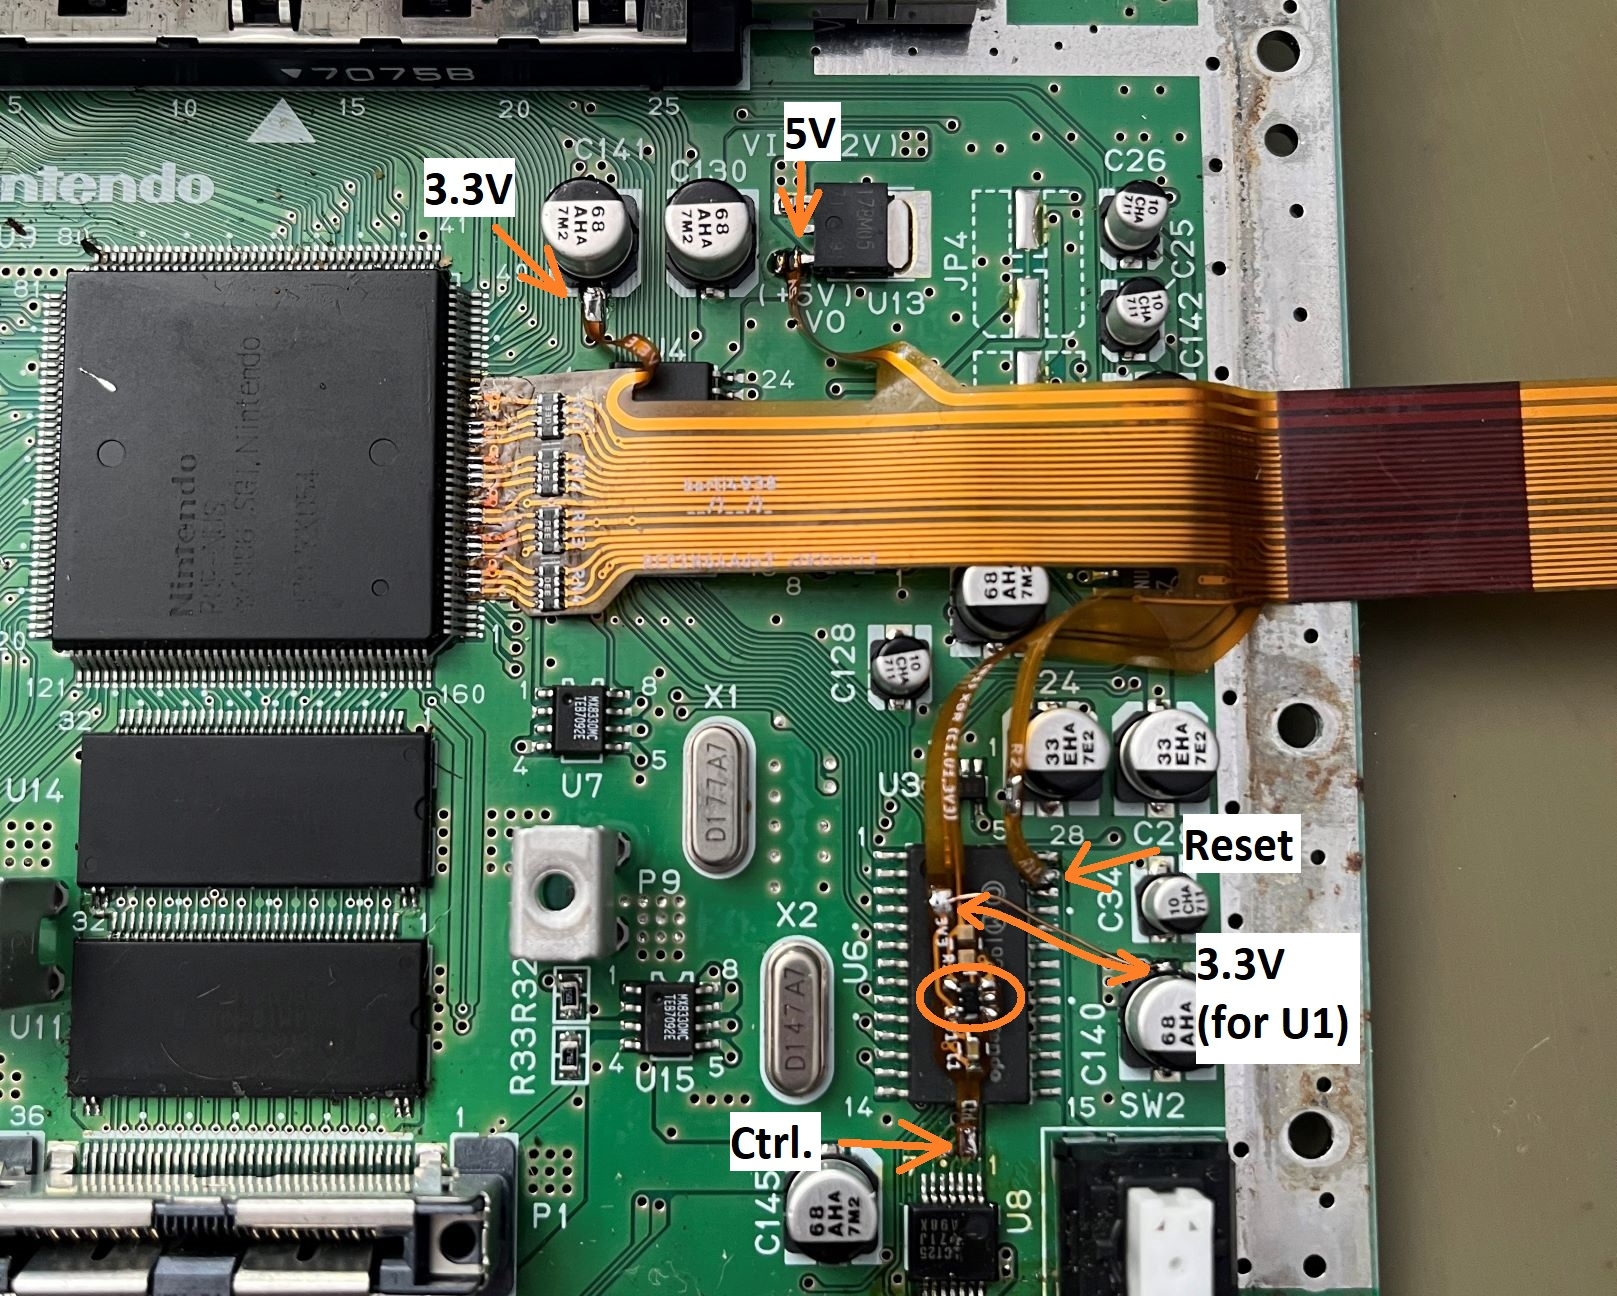
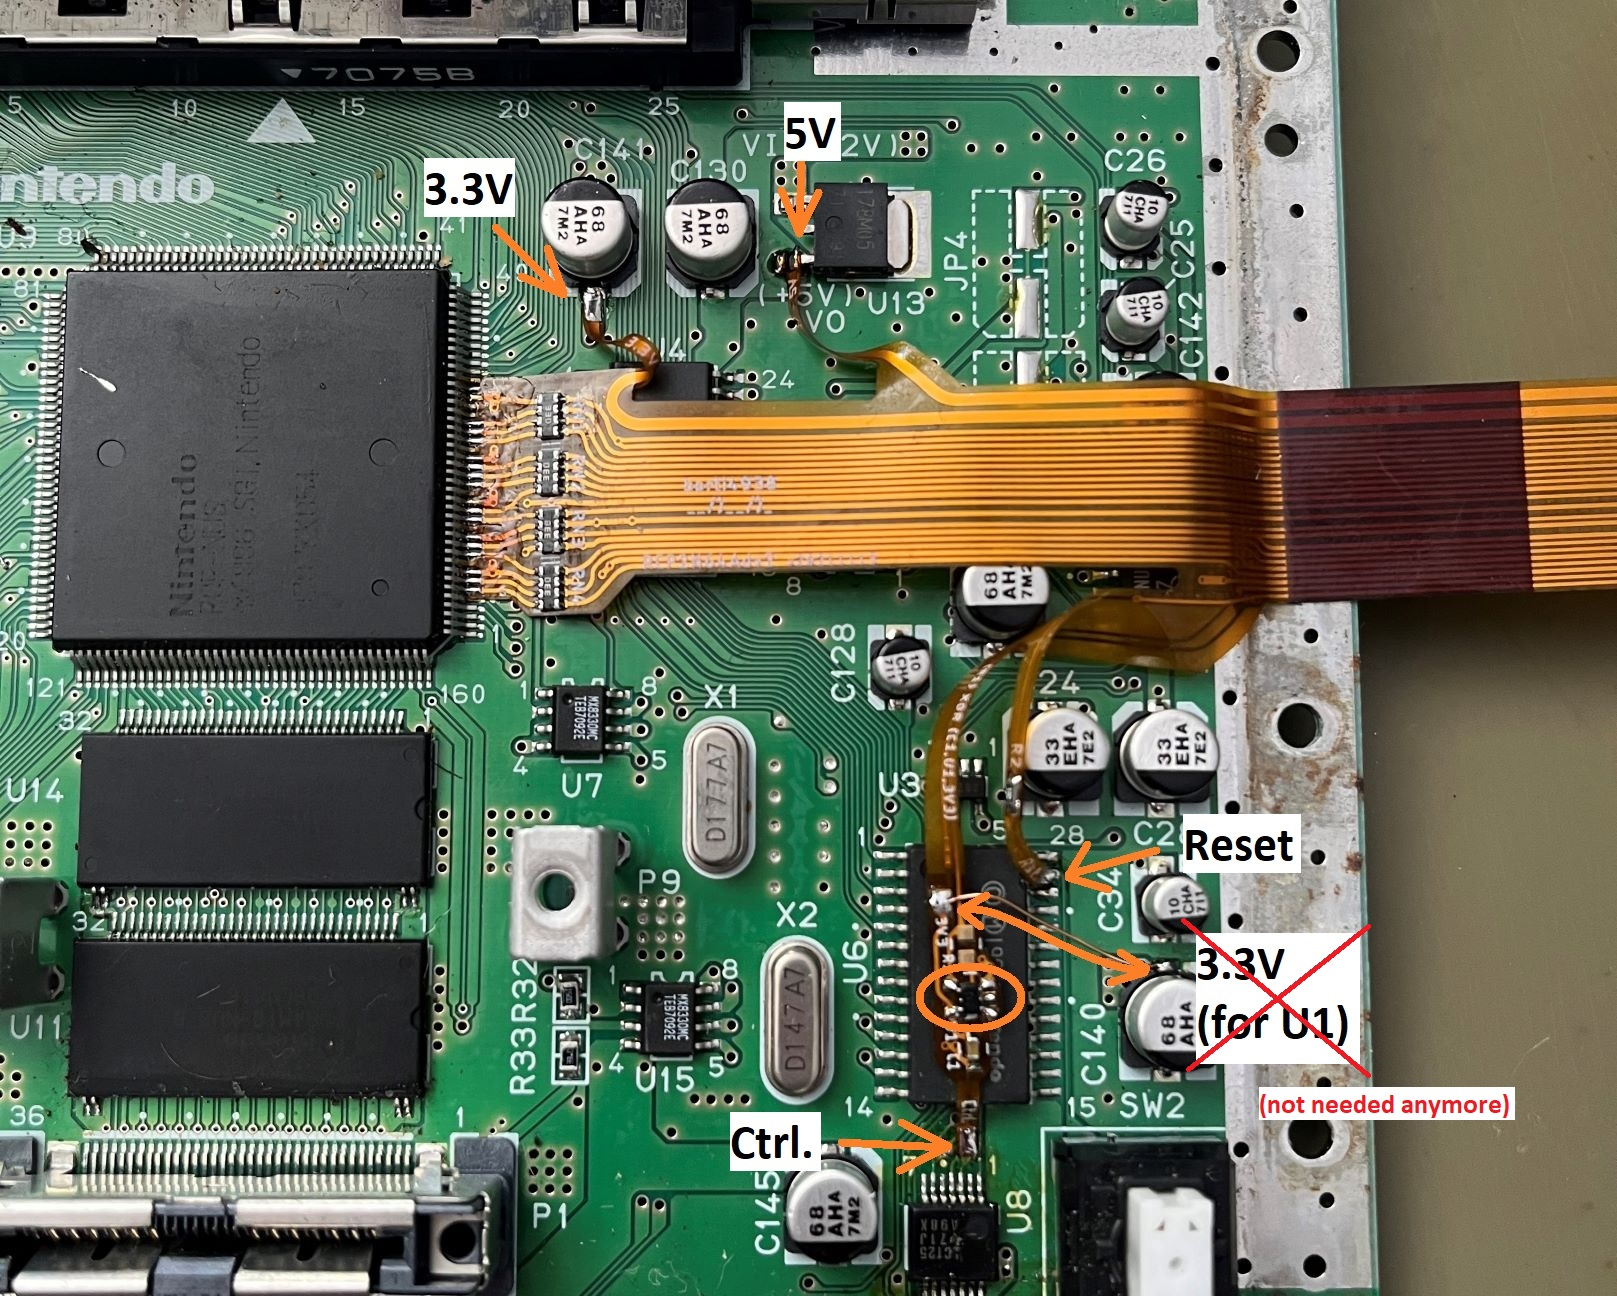
update readme

Changed region(s): [[0.773, 0.8333, 0.9586, 0.8642], [0.773, 0.7407, 0.8349, 0.8025], [0.7421, 0.7099, 0.773, 0.7407]]

diff --git a/README.md b/README.md
@@ -56,7 +56,7 @@ Next to it on the board there are some SMD1206 resistor and ferrite bead arrays.
 - **Main-PCB** Use PCB files (either [KiCAD-PCB design file](./pcbs/main/n64adv2.kicad_pcb) or [Gerber files](./gerber/main/)) to order your own PCB with following specs (might be not comprehensive)  
   - Size: 89.6mm x 80.0mm
   - Layer: 4
-  - FPC thickness: 1.2mm
+  - FPC thickness: 1.6mm
   - Min hole size: dia 0.3mm / ring 0.6mm or lower
   - Min trace width / spacing: 0.2mm
 - **Flex-PCB** Use PCB files (either [KiCAD-PCB design file](./pcbs/flex/rcp2n64adv2.kicad_pcb) or [Gerber files](./gerber/full_flex/)) to order your own PCB with following specs (might be not comprehensive)  
@@ -124,10 +124,10 @@ You will need the following parts for it:
 
 1. N64Adv2 PCB
 2. Flex Cable
-3. A set of washers (M3)
+3. Two to four of washers (M3)
 4. Thermal pad
   - Cut Mod: appr. 1mm to 1.5mm thickness
-  - No Cut Mod: appr. 2mm to 2.5mm thickness
+  - No Cut Mod: appr. 2.5mm to 3.0mm thickness
 5. 3D printed parts:
   - Cut Mod: [round filler](./prints_3d/Filler_Round.stl), [JTAG spacer](./prints_3d/N64ADV2_JTAG_Spacer_v1p1.stl) and [MultiOut replacement](./prints_3d/N64Adv2_Half-Cut_v1p1.stl)
   - No Cut Mod: [PCB lift bracket](./prints_3d/N64Adv2_lift.stl) and [MultiOut replacement](./prints_3d/N64Adv2_No-Cut_v1.stl)
@@ -197,7 +197,6 @@ Apply solder to all pins.
 Double check for shorts and good connections with a continuity tester of a digital multimeter.
 
 Solder 3.3V, 5V, Reset and Controller legs to the N64 as shown.
-If your cable has a tiny IC on the controller leg, you need to run another 3.3V connection wire.
 
 ![](./doc/img/n64adv2_full_flex.jpg)
 
@@ -211,7 +210,6 @@ Short summary:
   - reset from PIF-NUS pin 27
   - Controller from PIF-NUS pin 16  
   (Make sure that PIF-NUS pin 16 is connected to the middle pin of controller port 1, otherwise search for a suitable connection point)
-  - Connect another 3.3V power rail, e.g. from U140
 - If you have a CPLD-based RGB mod, you can use J3 to setup VI-DeBlur on that mod over the N64Adv2
   - J3 has two pads: the left one (directly above the N64Adv2 logo) is the feedback signal, the other one is GND.
     Use a DMM if you are unsure (the GND pad has connection to any GND point on the N64 mainboard if flex is installed)
@@ -280,7 +278,6 @@ More details on that can be found in the [UltraPIF Repository](https://github.co
 Once the UltraPIF Adapter sits in its place, you can reconnect the reset and controller connections of the flex cable.
 
 For the controller connection, you can use the _CON_ pad on the adapter.
-Do not forget to connect 3.3V if U1 is on your flex cable.
 
 For the reset connection you have to go for pin 27 on the adapter.
 **DO NOT USE THE _RST_ PAD!** as it acts as an input only.
